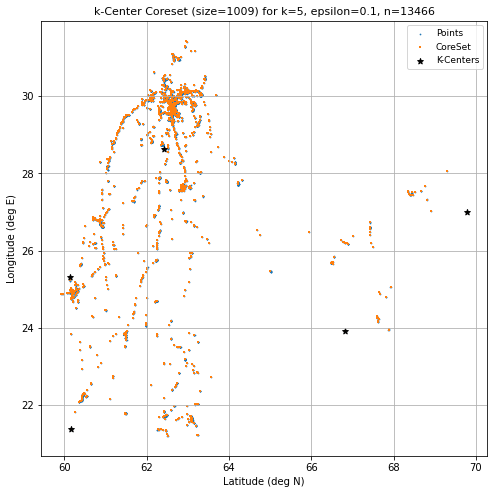
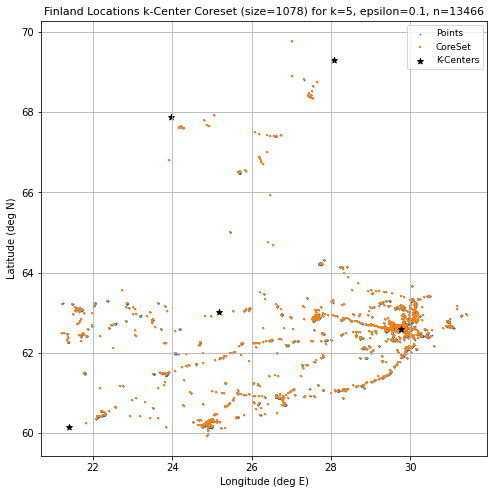
readme updates

diff --git a/algorithms/coreset_kcenter.py b/algorithms/coreset_kcenter.py
@@ -61,7 +61,7 @@ class Coreset_kCenter:
         if not coreset_plot_flag:
             c_x = [vec[0] for vec in  self.coreSet_array]
             c_y = [vec[1] for vec in  self.coreSet_array]
-            plt.scatter(c_x, c_y, s=2.5, marker = '+', label = 'CoreSet')
+            plt.scatter(c_x, c_y, s=2, marker = '+', label = 'CoreSet')
 
         c_x = [vec[0] for vec in self.centers]
         c_y = [vec[1] for vec in self.centers]
@@ -70,8 +70,8 @@ class Coreset_kCenter:
 
         title_text = 'k-Center Coreset (size={}) for k={}, epsilon={}, n={}'.format(len(self.coreSet_array),self.k, self.epsilon, self.x_array.shape[0])
         plt.title(title_text, fontsize=11)
-        plt.ylabel('Longitude (deg E)')
-        plt.xlabel('Latitude (deg N)')
+        plt.xlabel('x')
+        plt.ylabel('y')
         #plt.xlim([min(x_plt) - 0.02*min(x_plt), max(x_plt) + 0.02*max(x_plt)])
         #plt.ylim([min(y_plt) - 0.02*min(y_plt), max(y_plt) + 0.02*max(y_plt)])
 

diff --git a/README.md b/README.md
@@ -1,6 +1,6 @@
 ## Coreset Algorithms for Streaming & Clustering
 ------------------------------------------------------
-Python implementation of various Coreset algorithms for clustering and streaming. The code in this repository can be used to generate Coresets for the following use-cases:
+Python implementation of various Coreset algorithms for clustering and streaming. The code in this repository can be used to generate Coresets for the following use-cases. 
 1. Median Estimation
 2. k-Center Clustering
 3. Minimum Enclosing Ball (MEB)
@@ -10,13 +10,33 @@ Python implementation of various Coreset algorithms for clustering and streaming
 
 <img src="presentation/plots/meb_1gaussian.png" width="400" height="400" /> <img src="presentation/plots/userLocs.png" width="400" height="400" />
 
-### Implementation details and Running Code:
+Note that all algorithms use the following standard Python libraries: numpy, pandas, matplotlib.pyplot, time. The code contains further documentation about parameters and values relevant to the algorithms. `helper_functions.py` and `coreset_util.py` contain some common functions used across the other modules. The `data` folder contains 2 datasets: UN CO2 Emissions and Finland 2012 Locations data.
+
+### Implementation details and Running the code:
 ------------------------------------------------------
+***Median Estimation***
+
+The class `Coreset_Median` in ```algorithms/coreset_median.py``` contains the implementation of an (epsilon*n) median approximation algorithm. The ```test/median_test.ipynb``` notebook contains code to test the implementation against numpy.median and generate runtime and median estimation plots (see sample plots below)
+
+<img src="presentation/plots/median_0.01.png" width="300" height="300" /> <img src="presentation/plots/median_runtime_0.01.png" width="300" height="300" />
+
+***Minimum Enclosing Ball***
+
+The class `Coreset_MinimumEnclosingBall` in ```algorithms/coreset_meb.py``` contains the implementation of algorithm to compute the Minimum Enclosing Ball on a given set of input points. The algorithm currently supports 2D data and the ```compute_minimumEnclosingBall()``` function can be used to run the algorithm and populate the array `self.meb_vector` with the points in the minimum enclosing ball. The ```test/kcenter_meb_test.ipynb``` notebook contains code to test the implementation and generate 2D plots for MEB (see sample plots below)
+
+<img src="presentation/plots/meb_gaussian.png" width="300" height="300" /> <img src="presentation/plots/meb_uniform.png" width="300" height="300" />
+
 ***k-center Clustering***
-The `Coreset_kCenter` class in ```algorithms/coreset_kcenter.py``` contains the implementation of an epsilon-additive k-center clustering coresest algorithm.
+
+The `Coreset_kCenter` class in ```algorithms/coreset_kcenter.py``` contains the implementation of an epsilon-additive k-center clustering coresest algorithm. The algorithm supports d-dimensional (d > 1) data and the `compute_kCenter_Coreset()` function can be used to run the algorithm and populate the array `self.coreSet_array` with the points in the Coreset. The function `greedy_kcenter()` computes a 2-approximation for the k-center clustering, and can be re-used to plot the k-center clustering using the coreset as input. 
+
+The ```test/kcenter_meb_test.ipynb``` notebook contains code to test the implementation and generate 2D plots for k-center coresets. The following plots show a sample k-center coreset for the Finland 2012 locations dataset (available in the `data` folder).
+
+<img src="presentation/plots/userLocs.png" width="300" height="300" /> <img src="presentation/plots/userLocs_coreset_kcenter.png" width="300" height="300" />
 
 
 ***Gaussian Mixture Models***
+
 
 
 ***Streaming Algorithms***
@@ -27,7 +47,7 @@ The easiest way to simulate the streaming algorithm would be to run the ```run_s
 
 A demonstration can be seen through the `get_true_and_coreest_kmeans_centers()` function in the ```algorithms/coreset_streaming_playbook.ipynb``` notebook. This notebook should be used for general reference for the usage of the streaming class.
 
-![coreset_img](presentation/plots/1000.png)
+<img src="presentation/plots/1000.png" width="300" height="300" />
 
 
 ### References
